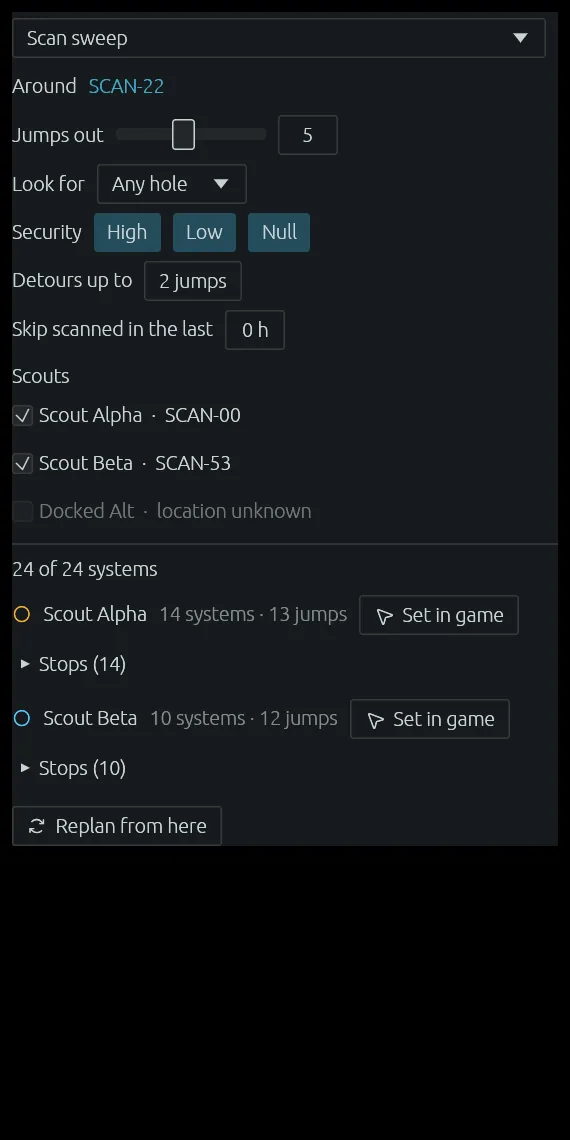
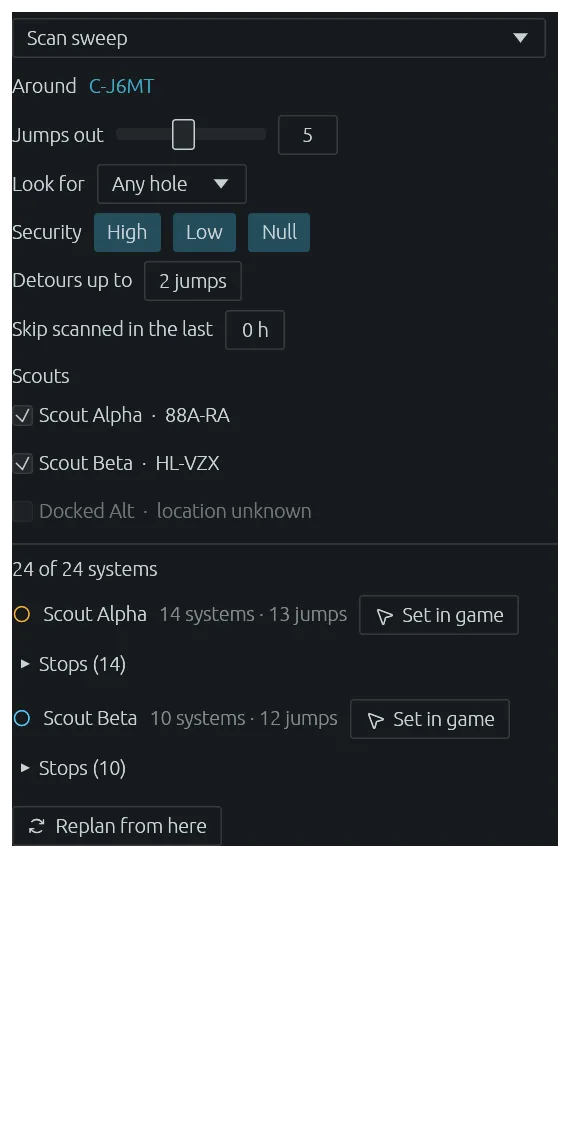
Website: tool list up top, varied lookup pilots, C-J6MT scan route, wording touchups
- Lookup showcase: three Goonswarm members, three neutrals without an alliance and one Fraternity. pilot, each with their own stats, hulls, tags and affiliates
- Scan sweep showcase: the grid is named after Insmother systems around C-J6MT instead of SCAN-xx
- Replace the lead under What it does with a short list of the tools
- Wormholes: Logged as you go instead of Found for you
- Light wording touchups across the page

diff --git a/site/index.html b/site/index.html
@@ -129,6 +129,10 @@
   section { padding: 44px 0; }
   h2 { font-size: 14px; text-transform: uppercase; letter-spacing: 1.2px; color: var(--muted); margin: 0 0 22px; font-weight: 600; }
   .lead { color: var(--muted); font-size: 16px; margin: -8px 0 30px; max-width: 720px; }
+  .tools { list-style: none; padding: 0; margin: -14px 0 40px; display: grid; grid-template-columns: repeat(auto-fill, minmax(260px, 1fr)); gap: 8px 24px; color: var(--muted); }
+  .tools li { padding-left: 14px; position: relative; }
+  .tools li::before { content: ""; position: absolute; left: 0; top: 0.6em; width: 6px; height: 6px; border-radius: 50%; background: var(--blue); }
+  .tools strong { color: var(--text); font-weight: 600; }
 
   .feature { display: grid; grid-template-columns: 5fr 7fr; gap: 40px; align-items: center; padding: 34px 0; border-top: 1px solid var(--line); }
   .feature:first-of-type { border-top: 0; }
@@ -197,7 +201,7 @@
     <img class="logo" src="eve-spai.png" alt="EVE Spai logo" width="96" height="96" />
     <h1>EVE&nbsp;Spai<span class="dot">.</span></h1>
     <p class="tag">Intel, maps and wormholes for EVE Online, built by and for the <span class="imperium">Imperium</span>.</p>
-    <p class="sub">It reads your intel channels as reports land, puts hostiles on the map, keeps your wormhole chains, looks up a local in one paste, turns nearby kills into battle reports and answers your questions by voice. Free and open source.</p>
+    <p class="sub">It reads your intel channels as reports land, puts hostiles on the map, keeps your wormhole chains, looks up a local in one paste, turns nearby kills into battle reports and answers your questions, typed or spoken. Free, open source, and on Windows, Linux and macOS.</p>
     <div><span class="alpha">Version 1.0 &middot; in active development</span></div>
 
     <div class="download">
@@ -239,7 +243,17 @@
   <main class="wrap">
     <section id="features">
       <h2>What it does</h2>
-      <p class="lead">Most intel, map, wormhole, lookup and battle features work for any capsuleer. Jabber pings are made for the Imperium's own ping format.</p>
+      <p class="lead">One window for what you would otherwise keep open in a dozen tabs:</p>
+      <ul class="tools">
+        <li><strong>Live intel</strong> read from your chat channels</li>
+        <li><strong>Star map</strong> with routes, jump bridges and jump ranges</li>
+        <li><strong>Wormhole</strong> chains, signatures and scan routes</li>
+        <li><strong>Pilot lookup</strong> for a pasted local</li>
+        <li><strong>Battle reports</strong> from zKillboard</li>
+        <li><strong>Jabber</strong> chat and fleet pings</li>
+        <li><strong>Assistant</strong> you can talk to</li>
+        <li><strong>Alerts</strong>, notes, tags and a map over the game</li>
+      </ul>
 
       <div class="feature">
         <div class="text">
@@ -249,7 +263,7 @@
           <ul>
             <li><strong>Alerts you design:</strong> by distance, count, hulls, keywords, channel or tagged pilots.</li>
             <li><strong>Heard and seen:</strong> a sound per rule, desktop notifications, an alert window over the game and phone push.</li>
-            <li><strong>Knows what it read:</strong> clears, kills, cynos, bubbles and "no visual" are picked out.</li>
+            <li><strong>Speaks intel shorthand:</strong> clears, kills, cynos, bubbles and "no visual" are picked out.</li>
           </ul>
         </div>
         <div class="shots">
@@ -262,7 +276,7 @@
         <div class="text">
           <div class="rank">02</div>
           <h3>Star map and routes</h3>
-          <p>An interactive map of the universe or one region, with hostiles lit as they are reported and the layers you want: sovereignty, activity, jump bridges with their Ansiblex zones, gate camps, Jove observatories and wormhole links.</p>
+          <p>An interactive map of the universe or one region, with hostiles lighting up as they are reported and the layers you want: sovereignty, activity, jump bridges with their Ansiblex zones, gate camps, Jove observatories and wormhole links.</p>
           <ul>
             <li><strong>Route planner:</strong> gate, capital jump and titan bridge routes, with systems to avoid and warnings on the way.</li>
             <li><strong>Straight to your client:</strong> set the route as waypoints in the game with one click.</li>
@@ -281,7 +295,7 @@
           <p>Every chain you know on one map, each hole coloured by the time it has left and drawn by the mass it has left. Pinned systems show how many jumps they are from each chain.</p>
           <ul>
             <li><strong>Signatures:</strong> paste a probe scan and every signature is kept per system, searchable in one browser.</li>
-            <li><strong>Found for you:</strong> holes your characters jump through are recorded, Thera and Turnur come from EVE-Scout.</li>
+            <li><strong>Logged as you go:</strong> every hole your characters jump through lands on the map, and Thera and Turnur come from EVE-Scout.</li>
             <li><strong>Shared safely:</strong> share chains with your group, end-to-end encrypted.</li>
             <li><strong>Scan routes:</strong> send one or more scouts around your space, nearest systems first.</li>
           </ul>
@@ -290,7 +304,7 @@
           <img class="shot" src="img/wormholes.webp?v=4" loading="lazy" width="1920" height="1200" alt="The wormhole map with several chains" data-caption="The wormhole map: line colour is time left, the pattern is mass left." />
           <div class="shots two">
             <img class="shot small" src="img/signatures-thumb.webp?v=4" data-full="img/signatures.webp?v=4" loading="lazy" width="640" height="400" alt="The signature browser" data-caption="The signature browser: every pasted signature, searchable." />
-            <img class="shot small" src="img/scan_route-thumb.webp?v=4" data-full="img/scan_route.webp?v=4" loading="lazy" width="640" height="1280" alt="A scan route for two scouts" data-caption="A scan route split between two scouts." style="aspect-ratio: 16 / 10; object-fit: cover; object-position: top;" />
+            <img class="shot small" src="img/scan_route-thumb.webp?v=5" data-full="img/scan_route.webp?v=5" loading="lazy" width="640" height="1280" alt="A scan route for two scouts" data-caption="A scan route split between two scouts." style="aspect-ratio: 16 / 10; object-fit: cover; object-position: top;" />
           </div>
         </div>
       </div>
@@ -299,14 +313,14 @@
         <div class="text">
           <div class="rank">04</div>
           <h3>Lookup</h3>
-          <p>Paste local and get every pilot in one table: danger, kills and losses, gang size, where and how they fly, standings and your own notes.</p>
+          <p>Paste local and size up every pilot in one table: danger, kills and losses, gang size, where and how they fly, standings and your own notes.</p>
           <ul>
             <li><strong>Habits at a glance:</strong> tags for FC, cyno, black ops, logi, bait and more.</li>
             <li><strong>Your call:</strong> hide blues, pick the columns, keep a history of lookups.</li>
           </ul>
         </div>
         <div class="shots">
-          <img class="shot" src="img/lookup.webp?v=4" loading="lazy" width="2160" height="1200" alt="The local lookup table" data-caption="A pasted local, looked up." />
+          <img class="shot" src="img/lookup.webp?v=5" loading="lazy" width="2160" height="1200" alt="The local lookup table" data-caption="A pasted local, looked up." />
         </div>
       </div>
 
@@ -314,7 +328,7 @@
         <div class="text">
           <div class="rank">05</div>
           <h3>Battle reports</h3>
-          <p>Kills near you cluster into battles on their own: sides, efficiency, losses and hulls worked out. Split an engagement, move a group to the other side or scrub a stray kill, then share it as a link on eve-spai.com.</p>
+          <p>No more stitching killmails together by hand. Kills near you cluster into battles on their own: sides, efficiency, losses and hulls worked out. Split an engagement, move a group to the other side or scrub a stray kill, then share it as a link on eve-spai.com.</p>
         </div>
         <div class="shots">
           <img class="shot" src="img/battle.webp?v=4" loading="lazy" width="1920" height="1200" alt="A battle report with three sides" data-caption="A real fight in F-5WYK, three sides worked out from the killmails." />
@@ -325,7 +339,7 @@
         <div class="text">
           <div class="rank">06</div>
           <h3>Jabber, made for the Imperium</h3>
-          <p>Fleet pings and chat without leaving the app. Pings are read into FC, formup, doctrine and comms, with a button to join Mumble.</p>
+          <p>Never miss a fleet: pings and chat right in the app. Pings are read into FC, formup, doctrine and comms, with a button to join Mumble.</p>
           <ul>
             <li><strong>Rooms and DMs:</strong> in the app or in their own windows.</li>
             <li><strong>Ping rules:</strong> pick which pings sound, pop up or reach your phone.</li>
@@ -399,7 +413,7 @@
     <section id="feedback" class="narrow">
       <h2>Feedback</h2>
       <div class="card">
-        <p>EVE Spai is under active development. Ideas, feedback and bug reports are welcome.</p>
+        <p>EVE Spai is under active development and shaped by the pilots who use it. Ideas, feedback and bug reports are welcome.</p>
         <div class="buttons">
           <a class="btn primary" href="https://discord.gg/u4bDqB9rjn">
             <svg viewBox="0 0 24 24" fill="currentColor"><path d="M19.27 5.33A16.6 16.6 0 0015.1 4l-.2.4a14 14 0 014 2 13.6 13.6 0 00-11.8 0c1.1-.86 2.5-1.55 4-2L10.9 4a16.6 16.6 0 00-4.17 1.33C3.6 9.96 2.7 14.5 3.16 18.95A16.7 16.7 0 008.3 21.5l.45-.65a10.9 10.9 0 01-1.74-.84l.43-.32a11.7 11.7 0 0010.1 0l.43.32c-.55.33-1.13.6-1.74.84l.45.65a16.6 16.6 0 005.13-2.55c.5-5.1-.83-9.6-2.32-13.62zM9.5 16c-.83 0-1.5-.76-1.5-1.7 0-.93.66-1.7 1.5-1.7s1.5.77 1.5 1.7c0 .94-.67 1.7-1.5 1.7zm5 0c-.83 0-1.5-.76-1.5-1.7 0-.93.67-1.7 1.5-1.7s1.5.77 1.5 1.7c0 .94-.67 1.7-1.5 1.7z"/></svg>

diff --git a/app/src/uitest/showcase.rs b/app/src/uitest/showcase.rs
@@ -261,38 +261,119 @@ fn jabber() -> Scene {
     .sharp(SHARP)
 }
 
-/// A pasted local list, looked up: made-up pilots and groups, every row finished.
+/// A pasted local list, looked up: made-up pilots, three in Goonswarm, three without an alliance and
+/// one in Fraternity., each with their own record, hulls and habits.
 fn lookup() -> Scene {
-    use crate::localscan::{Org, Row};
+    use crate::localscan::{Bait, Bar, Cyno, Fc, Org, Row, Ship, Summary, Tag};
     harness::scratch_profile();
-    fn rename(n: &str) -> &str {
-        match n {
-        "Fixture Pilot" => "Rhaegan Voss",
-        "Sample Hunter" => "Daro Kestrin",
-        "Test Logi" => "Liss Amberfall",
-        "Placeholder Scout" => "Tavik Oron",
-        "Imaginary Blops" => "Selune Varr",
-        "Quiet Alt" => "Marek Ilyn",
-        other => other,
-        }
-    }
-    let rows: Vec<(String, Row)> = fixtures::lookup_rows()
-        .into_iter()
-        .filter_map(|(n, r)| match r {
-            Row::Done(mut s) => {
-                let name = rename(&n).to_owned();
-                s.name = name.clone();
-                Some((name, Row::Done(s)))
-            }
-            _ => None,
-        })
-        .collect();
+    const GOONS: i64 = 1_354_830_081;
+    const FRAT: i64 = 99_003_581;
+    const HORDE: i64 = 99_005_338;
+    const INIT: i64 = 1_900_696_668;
+    let bars = |v: &[(u32, u32)]| v.iter().map(|&(kills, losses)| Bar { kills, losses }).collect::<Vec<_>>();
+    #[allow(clippy::too_many_arguments)]
+    let pilot = |id: i64, name: &str, corp: i64, alliance: i64, days: i64, sec: f64, danger: u32, gang: u32, avg: f64, solo: u32, kills: u32, losses: u32, isk: (f64, f64)| Summary {
+        id,
+        name: name.into(),
+        birthday: Some(fixtures::now() - days * 86_400),
+        security: Some(sec),
+        corp_id: corp,
+        alliance_id: alliance,
+        danger,
+        gang,
+        avg_gang: avg,
+        solo,
+        kills,
+        losses,
+        isk_destroyed: isk.0,
+        isk_lost: isk.1,
+        ..Default::default()
+    };
+    let fill = |mut s: Summary, groups: &[(u32, u32)], space: &[(u32, u32)], isk: &[(u32, u32)], ships: &[(i64, u32, u32)]| {
+        s.groups.iter_mut().zip(bars(groups)).for_each(|(a, b)| *a = b);
+        s.space.iter_mut().zip(bars(space)).for_each(|(a, b)| *a = b);
+        s.isk.iter_mut().zip(bars(isk)).for_each(|(a, b)| *a = b);
+        s.ships = ships.iter().map(|&(type_id, kills, losses)| Ship { type_id, group_id: 0, kills, losses }).collect();
+        s
+    };
+    let mut line = fill(
+        pilot(2_120_000_101, "Brannoc Velt", 98_400_001, GOONS, 2_262, 2.1, 38, 98, 61.0, 1, 1_284, 212, (410e9, 38e9)),
+        &[(1, 2), (8, 6), (40, 11), (190, 38), (420, 70), (430, 55), (195, 30), (0, 0)],
+        &[(12, 4), (40, 9), (1_210, 196), (22, 3), (0, 0), (0, 0)],
+        &[(980, 160), (230, 40), (60, 10), (14, 2)],
+        &[(12015, 640, 31), (11987, 210, 9), (22456, 180, 12)],
+    );
+    line.affiliates = vec![(GOONS, 1_120), (HORDE, 41)];
+    line.tags = vec![(Tag::Logi, 9)];
+    let mut fc = fill(
+        pilot(2_120_000_102, "Iska Morrow", 98_400_002, GOONS, 3_420, 4.8, 64, 99, 142.0, 0, 4_920, 388, (2.1e12, 96e9)),
+        &[(0, 0), (12, 8), (60, 20), (410, 60), (1_380, 120), (2_100, 130), (958, 50), (0, 0)],
+        &[(30, 6), (210, 22), (4_500, 352), (180, 8), (0, 0), (0, 0)],
+        &[(3_100, 250), (1_200, 90), (480, 38), (140, 10)],
+        &[(22460, 1_830, 96), (29990, 1_120, 44), (11978, 610, 30)],
+    );
+    fc.affiliates = vec![(GOONS, 4_600), (INIT, 180), (HORDE, 120)];
+    fc.tags = vec![(Tag::Fc, 0), (Tag::Cyno, 4)];
+    fc.fc = Some(Fc { level: "high".into(), score: 92, monitor: 0, command: 210, large_fleet: 880 });
+    fc.cyno = Some(Cyno { standard: 4, covert: 0, industrial: 0 });
+    let newbro = fill(
+        pilot(2_120_000_103, "Pell Arnault", 98_400_001, GOONS, 65, 0.6, 9, 100, 38.0, 0, 14, 9, (2.1e9, 0.4e9)),
+        &[(0, 0), (0, 1), (0, 0), (6, 3), (8, 4), (0, 1), (0, 0), (0, 0)],
+        &[(0, 0), (0, 0), (14, 9), (0, 0), (0, 0), (0, 0)],
+        &[(14, 9), (0, 0), (0, 0), (0, 0)],
+        &[(620, 11, 5), (32880, 0, 2), (608, 3, 2)],
+    );
+    let mut explorer = fill(
+        pilot(2_120_000_104, "Odrin Saak", 98_400_011, 0, 1_130, 3.4, 21, 40, 2.1, 19, 31, 44, (5.6e9, 7.2e9)),
+        &[(19, 20), (9, 14), (3, 8), (0, 2), (0, 0), (0, 0), (0, 0), (0, 0)],
+        &[(2, 3), (1, 6), (4, 9), (24, 26), (0, 0), (0, 0)],
+        &[(29, 40), (2, 4), (0, 0), (0, 0)],
+        &[(33468, 12, 9), (11192, 2, 6), (605, 0, 11)],
+    );
+    explorer.affiliates = vec![(0, 31)];
+    let mut camper = fill(
+        pilot(2_120_000_105, "Veyra Tolune", 98_400_012, 0, 2_040, -7.9, 91, 71, 5.4, 143, 2_206, 118, (640e9, 31e9)),
+        &[(143, 21), (1_100, 52), (720, 30), (230, 12), (13, 3), (0, 0), (0, 0), (0, 0)],
+        &[(310, 12), (1_840, 98), (52, 6), (4, 2), (0, 0), (0, 0)],
+        &[(1_790, 100), (330, 15), (70, 3), (16, 0)],
+        &[(33157, 1_210, 61), (22456, 640, 33), (11198, 356, 24)],
+    );
+    camper.faction_id = 500_002;
+    camper.affiliates = vec![(0, 2_100), (99_003_214, 90)];
+    camper.tags = vec![(Tag::Ganker, 26), (Tag::Bait, 4)];
+    camper.ganker = 26;
+    camper.bait = Some(Bait { level: "low".into(), count: 4 });
+    let hauler = fill(
+        pilot(2_120_000_106, "Kett Marrow", 98_400_013, 0, 610, 5.0, 0, 0, 0.0, 0, 0, 6, (0.0, 3.1e9)),
+        &[(0, 4), (0, 2), (0, 0), (0, 0), (0, 0), (0, 0), (0, 0), (0, 0)],
+        &[(0, 2), (0, 3), (0, 1), (0, 0), (0, 0), (0, 0)],
+        &[(0, 5), (0, 1), (0, 0), (0, 0)],
+        &[(12733, 0, 3), (29248, 0, 2), (11129, 0, 1)],
+    );
+    let mut blops = fill(
+        pilot(2_120_000_107, "Saro Dvelin", 98_400_021, FRAT, 1_560, -2.6, 94, 89, 18.0, 27, 3_870, 402, (1.4e12, 88e9)),
+        &[(27, 6), (380, 40), (1_240, 120), (1_610, 170), (520, 52), (73, 14), (0, 0), (0, 0)],
+        &[(60, 8), (420, 51), (3_310, 336), (80, 7), (0, 0), (0, 0)],
+        &[(2_910, 330), (680, 52), (220, 16), (60, 4)],
+        &[(12038, 1_210, 96), (12032, 640, 51), (29986, 310, 22)],
+    );
+    blops.affiliates = vec![(FRAT, 3_400), (HORDE, 260), (INIT, 140)];
+    blops.tags = vec![(Tag::Blops, 7), (Tag::Cyno, 3)];
+    blops.cyno = Some(Cyno { standard: 0, covert: 3, industrial: 0 });
+    let rows: Vec<(String, Row)> = [line, fc, newbro, explorer, camper, hauler, blops].into_iter().map(|s| (s.name.clone(), Row::Done(Box::new(s)))).collect();
     let org = |name: &str, ticker: &str| Org { name: name.to_owned(), ticker: ticker.to_owned() };
     let orgs = vec![
-        (98_000_001, org("Hollow Reach Salvage", "HRSV")),
-        (98_000_003, org("Ashen Veil", "ASHV")),
-        (99_000_001, org("Vanta Consortium", "VANTA")),
-        (99_000_002, org("Crimson Tidewalkers", "TIDE")),
+        (98_400_001, org("KarmaFleet", "KF")),
+        (98_400_002, org("GoonWaffe", "GEWNS")),
+        (98_400_011, org("Hollow Reach Salvage", "HRSV")),
+        (98_400_012, org("Ashen Veil", "ASHV")),
+        (98_400_013, org("Tidewalker Freight", "TDWF")),
+        (98_400_021, org("Hellfire Collective", "HFC")),
+        (GOONS, org("Goonswarm Federation", "CONDI")),
+        (FRAT, org("Fraternity.", "FRT")),
+        (HORDE, org("Pandemic Horde", "REKTD")),
+        (INIT, org("The Initiative.", "INIT")),
+        (99_003_214, org("Brave Collective", "BRAVE")),
     ];
     let mut app: Option<crate::app::SpaiApp> = None;
     // Wider than the rest: the table's full set of columns needs a little over 1280.
@@ -300,6 +381,8 @@ fn lookup() -> Scene {
         let app = app.get_or_insert_with(|| {
             let mut a = crate::app::SpaiApp::build(ui.ctx(), true);
             a.seed_lookup(rows.clone(), orgs.clone());
+            // Blue Goonswarm, red Fraternity., the rest without a standing.
+            a.seed_standings([(GOONS, 10.0), (FRAT, -10.0)]);
             a.view = View::Lookup;
             a
         });

diff --git a/app/src/uitest/fixtures.rs b/app/src/uitest/fixtures.rs
@@ -53,18 +53,26 @@ pub(crate) fn systems_wh_pins() -> Arc<Systems> {
     Arc::new(s)
 }
 
-/// A 6 by 4 grid of gate-linked nullsec systems, "SCAN-00" to "SCAN-53", id `30_009_100 + 10x + y`,
-/// for scan routes that have somewhere to go.
+/// A 6 by 4 grid of gate-linked nullsec systems, id `30_009_100 + 10x + y`, for scan routes that
+/// have somewhere to go. Named after Insmother systems with C-J6MT at (2, 2); the gates are made up.
 pub(crate) fn systems_scan() -> Arc<Systems> {
+    const NAMES: [[&str; 4]; 6] = [
+        ["88A-RA", "78-0R6", "8-WYQZ", "4M-QXK"],
+        ["YPW-M4", "0-6VZ5", "04-EHC", "1TG7-W"],
+        ["2-Q4YG", "27-HP0", "C-J6MT", "3U-48K"],
+        ["4CJ-AC", "5C-RPA", "67Y-NR", "7-JT09"],
+        ["8EF-58", "A-TJ0G", "B-II34", "D-P1EH"],
+        ["EFM-C4", "F2A-GX", "GB-6X5", "HL-VZX"],
+    ];
     let id = |x: i64, y: i64| 30_009_100 + 10 * x + y;
     let mut by_name = HashMap::new();
     let mut adjacency: HashMap<i64, Vec<i64>> = HashMap::new();
     for x in 0..6 {
         for y in 0..4 {
-            let name = format!("SCAN-{x}{y}");
+            let name = NAMES[x as usize][y as usize].to_owned();
             by_name.insert(
                 name.to_lowercase(),
-                SystemInfo { id: id(x, y), name, security: -0.4, constellation: "Grid".into(), region: "Delve".into(), faction: String::new() },
+                SystemInfo { id: id(x, y), name, security: -0.4, constellation: "Grid".into(), region: "Insmother".into(), faction: String::new() },
             );
             for (dx, dy) in [(1, 0), (-1, 0), (0, 1), (0, -1)] {
                 if (0..6).contains(&(x + dx)) && (0..4).contains(&(y + dy)) {

diff --git a/app/src/app.rs b/app/src/app.rs
@@ -3164,6 +3164,11 @@ impl SpaiApp {
     }
 
     #[cfg(test)]
+    pub(crate) fn seed_standings(&mut self, standings: impl IntoIterator<Item = (i64, f32)>) {
+        *self.standings.lock().unwrap() = standings.into_iter().collect();
+    }
+
+    #[cfg(test)]
     pub(crate) fn seed_lookup(&mut self, rows: Vec<(String, crate::localscan::Row)>, orgs: Vec<(i64, crate::localscan::Org)>) {
         let mut t = self.lookup_table.lock().unwrap();
         self.lookup_current = rows.iter().map(|(n, _)| n.clone()).collect();

diff --git a/app/src/uitest/scenes.rs b/app/src/uitest/scenes.rs
@@ -867,7 +867,7 @@ fn wormholes_pins_scene(name: &'static str) -> Scene {
     })
 }
 
-/// The Route dock planning a scan route around SCAN-22 for two scouts at opposite corners.
+/// The Route dock planning a scan route around C-J6MT for two scouts at opposite corners.
 fn route_scan_scene(name: &'static str) -> Scene {
     harness::scratch_profile();
     let mut app: Option<crate::app::SpaiApp> = None;
